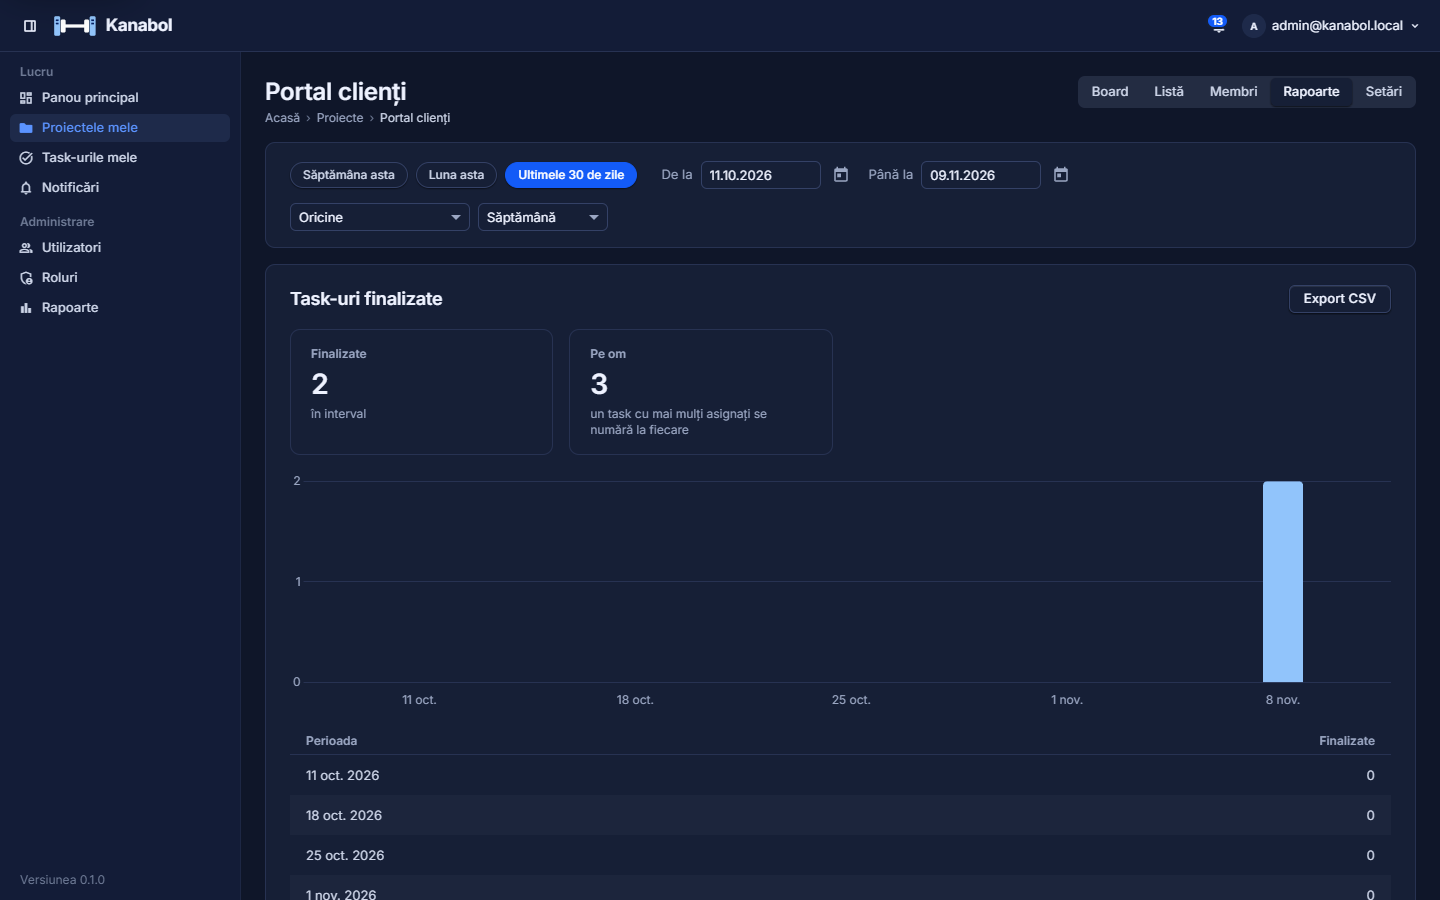
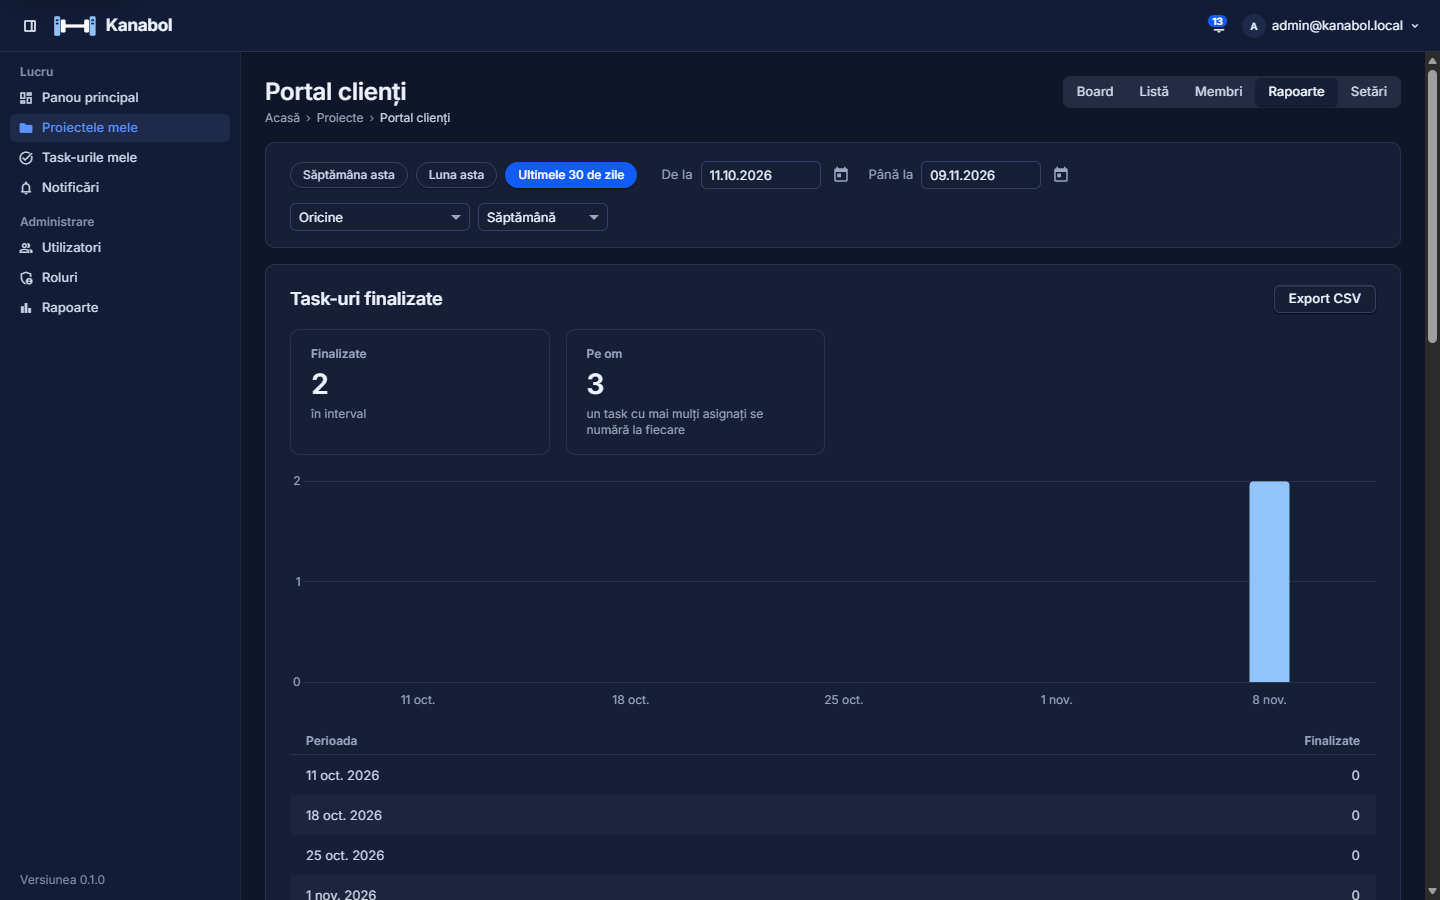
feat(web): text-500 and dark sky-300 pass AA, axe-core run again, the screenshots taken again

Changed region(s): [[0.7188, 0.0622, 1.0, 1.0], [0.8438, 0.5289, 0.9062, 0.7778], [0.4062, 0.3733, 0.5312, 0.4978]]

diff --git a/frontend/src/styles/_tokens.scss b/frontend/src/styles/_tokens.scss
@@ -18,7 +18,7 @@
   --kb-text-900: #052063;
   --kb-text-700: #394561;
   --kb-text-600: #616971;
-  --kb-text-500: #787f86;
+  --kb-text-500: #697078;
   --kb-border-300: #c6c9d0;
   --kb-border-200: #e5e8ee;
   --kb-archived-400: #9da9b8;
@@ -98,9 +98,9 @@
   --kb-text-900: #eef2ff;
   --kb-text-700: #cdd5e8;
   --kb-text-600: #9aa6c2;
-  --kb-text-500: #6f7b96;
+  --kb-text-500: #8692ae;
   --kb-accent-600: #5b93ff;
-  --kb-sky-300: #3d6fc9;
+  --kb-sky-300: #3b6cc7;
   --kb-navy-900: #eef2ff;
   --kb-info-bg: #113a45;
   --kb-info-text: #9fdcea;

diff --git a/docs/ui-review.md b/docs/ui-review.md
@@ -1,12 +1,12 @@
 # Verificarea UI (grupul 19b)
 
-Fiecare ecran din `docs/UI_UX_SPEC.md` §7, în light și în dark, verificat cu `axe-core` și pentru `prefers-reduced-motion` (UI §8, §9, §15; `docs/SPEC.md` §13.5). Făcută pe 2026-11-09, pe `feature/delivery`.
+Fiecare ecran din `docs/UI_UX_SPEC.md` §7, în light și în dark, verificat cu `axe-core` și pentru `prefers-reduced-motion` (UI §8, §9, §15; `docs/SPEC.md` §13.5). Făcută pe 2026-11-09, pe `feature/delivery`, și reluată în grupul 20, pe `feature/collation`, după token-urile de contrast (mai jos).
 
 ## Cum
 
 - **Datele**: `scripts/demo-data.sh` pe un API local în Production, pe o bază proprie, cu verificarea întârziatelor la un minut, ca notificările „a depășit deadline-ul” să existe. Aplicația din `ng serve`, cu proxy spre acel API. Adminul e cel care se uită, cu 13 notificări necitite.
 - **axe-core** 4.14 (dependență de dev în `frontend/package.json`), rulat în Browser pane pe fiecare ecran, cu regulile `wcag2a`, `wcag2aa`, `wcag21a`, `wcag21aa`, `wcag22aa` și `best-practice`. Tema vine din `prefers-color-scheme`, pe care aplicația o urmează cât omul nu a ales una. Viewport 1440×900.
-- **Capturile**: PNG de 1440×900 în `docs/screens/`, `<secțiune>-<ecran>-<temă>.png`, dintr-un Edge headless condus prin protocolul DevTools, pe aceleași date, după reparațiile de mai jos.
+- **Capturile**: PNG de 1440×900 în `docs/screens/`, `<secțiune>-<ecran>-<temă>.png`, dintr-un Edge headless condus prin protocolul DevTools, pe aceleași date, după reparațiile de mai jos. Refăcute în grupul 20 cu token-urile noi, pe aceleași date.
 - **Mișcarea**: în Browser pane (care raportează `reduce`), fiecare element cu o tranziție mai lungă de 0 și fiecare animație care rulează; apoi în Edge headless, cu API-ul încetinit, `reduce` față de `no-preference`.
 
 ## Ecranele
@@ -56,12 +56,27 @@ Mișcarea: cu `reduce`, câmpurile, `kb-filter-chip`, select-urile, rândurile t
 
 Nicio reparație nu schimbă ce spun specurile. După ele, pe fiecare ecran, în ambele teme, au rămas doar cele de mai jos.
 
-## Ce rămâne (în Blocked, cu propunere)
+## Ce a rămas după 19b (în Blocked atunci), și cum s-a decis
 
-1. **`--kb-text-500` la 12–13px.** UI §2.2 îl permite doar pentru text de cel puțin 14px bold sau 18px, dar §6.0.7 (titlurile grupurilor din sidebar), §6.3 (textul de ajutor) și §7.4 (cheia de pe card) îl cer la mărimea `caption`, iar codul îl folosește la fel pentru meta: cheile task-urilor (card, Listă, Task-urile mele, panou), timpii relativi, cheile proiectelor, versiunea. Măsurat: în light 4,05:1 pe alb, 3,98 pe sidebar (#fcfdff), 3,81 pe zebra tabelelor (#f7f8fa), 3,65 pe rândurile necitite (#ecf4fc); în dark 3,99 pe #141c32, 3,86 pe #161f36, 3,59 pe #1c253c, 3,33 pe #1e2a4a. Propunerea: `--kb-text-500` #697078 în light (4,51–5,01:1 pe aceleași fundaluri) și #8692ae în dark (4,54–5,77:1), tot sub `text-600`, deci ierarhia rămâne.
-2. **Chip-ul „Owner” în dark**: `text-900` pe `--kb-sky-300` #3d6fc9, 4,35:1 la 12px. Propunerea: `--kb-sky-300` în dark #3b6cc7 (4,52:1), `--kb-chart-2` rămâne #3d6fc9.
-3. **Numele cardului de pe board** (`label-content-name-mismatch`, regulă experimentală în axe 4.14): numele e cheia și titlul, iar cardul arată și prioritatea, deadline-ul și inițialele asignaților. Regula pică și cu tot textul vizibil copiat în nume, deci nu o pot face să treacă din `aria-label`. Propunerea: rămâne așa (numele începe cu ce scrie pe card, tastele sunt în `aria-describedby`); sau numele cu toate câmpurile, „PORT-2, Medium, …, 21.11.2026, Dan Ionescu”, dacă vrei ca cititorul de ecran să le spună la fiecare card.
-4. **Overlay-urile Material** (`region` la dialog și meniu): containerul overlay-ului CDK stă lângă `body`. E felul în care Material le pune; o reparație ar fi un landmark al nostru în jurul containerului. Propunerea: acceptat, ca la celelalte excepții Material din UI §6.0.
+1. **`--kb-text-500` la 12–13px.** UI §2.2 îl permitea doar pentru text de cel puțin 14px bold sau 18px, dar §6.0.7 (titlurile grupurilor din sidebar), §6.3 (textul de ajutor) și §7.4 (cheia de pe card) îl cer la mărimea `caption`, iar codul îl folosește la fel pentru meta: cheile task-urilor (card, Listă, Task-urile mele, panou), timpii relativi, cheile proiectelor, versiunea. Măsurat: în light 4,05:1 pe alb, 3,98 pe sidebar (#fcfdff), 3,81 pe zebra tabelelor (#f7f8fa), 3,65 pe rândurile necitite (#ecf4fc); în dark 3,99 pe #141c32, 3,86 pe #161f36, 3,59 pe #1c253c, 3,33 pe #1e2a4a. Decis în UI v1.20: `--kb-text-500` #697078 în light (4,51–5,01:1 pe aceleași fundaluri) și #8692ae în dark (4,54–5,77:1), tot sub `text-600`, deci ierarhia rămâne. Aplicat în grupul 20.
+2. **Chip-ul „Owner” în dark**: `text-900` pe `--kb-sky-300` #3d6fc9, 4,35:1 la 12px. Decis în UI v1.20: `--kb-sky-300` în dark #3b6cc7 (4,52:1), `--kb-chart-2` rămâne #3d6fc9. Aplicat în grupul 20.
+3. **Numele cardului de pe board** (`label-content-name-mismatch`, regulă experimentală în axe 4.14): numele e cheia și titlul, iar cardul arată și prioritatea, deadline-ul și inițialele asignaților. Regula pică și cu tot textul vizibil copiat în nume, deci nu poate trece din `aria-label`. Decis în UI v1.20 (§7.4): rămâne cheia și titlul, tastele în `aria-describedby`.
+4. **Overlay-urile Material** (`region` la dialog și meniu): containerul overlay-ului CDK stă lângă `body`, cum le pune Material. Decis în UI v1.20 (§6.0.5, §6.0.6): acceptat, ca celelalte excepții Material.
+
+## Grupul 20: token-urile de contrast
+
+Pe 2026-11-09, pe `feature/collation`, cu `--kb-text-500` #697078 / #8692ae și `--kb-sky-300` #3b6cc7 în dark (UI §2.1–§2.3, §3.2) în `_tokens.scss`. Aceleași date ca în 19b (`scripts/demo-data.sh` pe un API local în Production, adminul cu 13 notificări necitite), aplicația din `ng serve`, axe-core 4.14 în Browser pane, la 1440×900, cu tema din `prefers-color-scheme`.
+
+| Ecranul                        | Regulile                                  | Light                                                                                              | Dark                                                             |
+| ------------------------------ | ----------------------------------------- | -------------------------------------------------------------------------------------------------- | ---------------------------------------------------------------- |
+| 7.2 Panou principal (cu shell) | toate, ca în 19b                          | 0 încălcări                                                                                        | 0 încălcări                                                      |
+| 7.3 Membri (`7.3-membri`)      | toate, ca în 19b                          | 0 încălcări; „Owner” `#052063` pe #91c4fb                                                          | 0 încălcări; „Owner” `#eef2ff` pe #3b6cc7                        |
+| Toate cele 13 ecrane cu shell  | `color-contrast`                          | 0 încălcări                                                                                        | 0 încălcări                                                      |
+| Contraprobă: valorile vechi    | toate, valoarea pusă pe `:root` în pagină | Panou cu #787f86: 15 noduri `color-contrast` (titlurile grupurilor din sidebar, versiunea, cheile) | Membri cu #3d6fc9: cele 2 chip-uri „Owner”; cu #6f7b96: 3 noduri |
+
+Cele 13 ecrane cu shell: Panou, Task-urile mele, Proiecte, proiectul cu Listă, Membri, Rapoarte, Setări și Board, Notificări, Utilizatori, Roluri, Rapoarte și panoul task-ului. Rămân „de verificat”, ca în 19b, doar butoanele pline cu gradient (`kb-default`), verificate de mână mai jos.
+
+Capturile din `docs/screens/` sunt refăcute cu token-urile noi, pe aceleași date, cu același Edge headless: 30 diferă de cele din v0.1.0. Cele două ale paginii de login nu au text în `text-500` și au ieșit identice, octet cu octet, deci în rest nimic nu s-a mișcat. `check-collation.sh` 3 verifică token-urile, CSS-ul construit, capturile și acest document.
 
 ## Verificate de mână (axe le-a lăsat „de verificat”)
 
